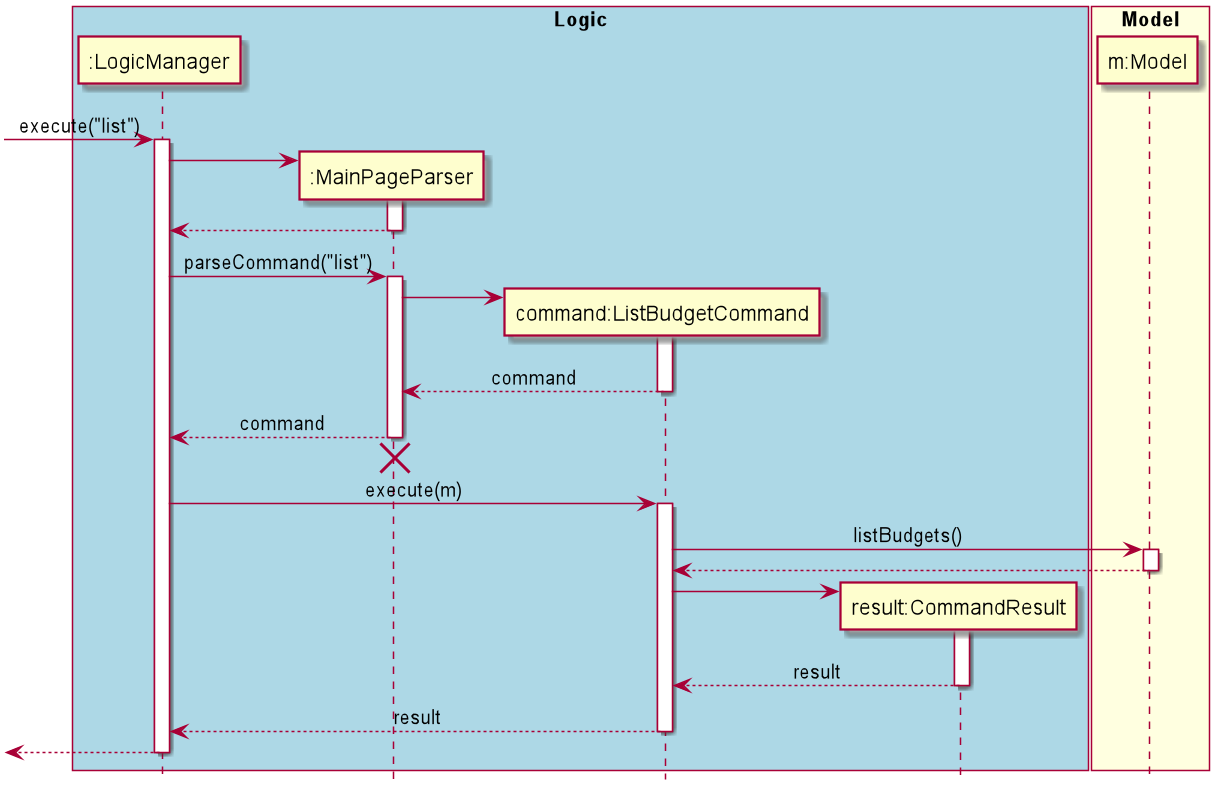
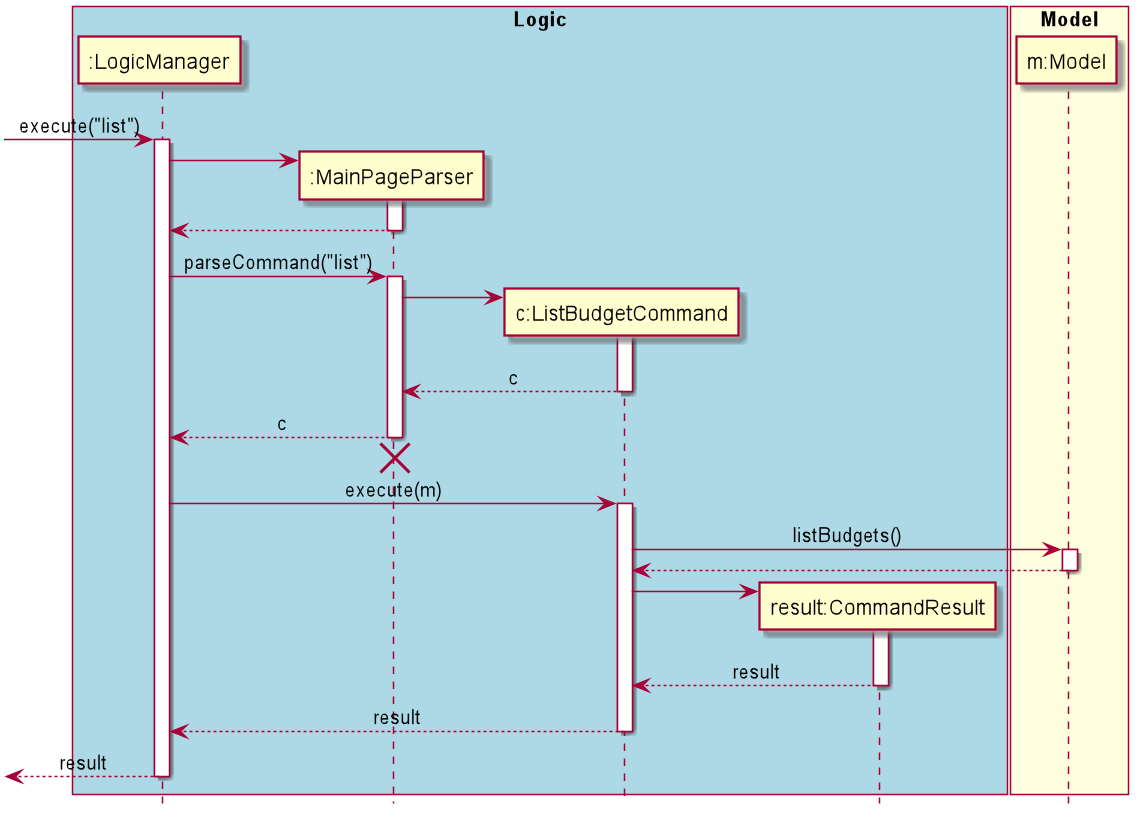
Fix sequence diagrams

diff --git a/docs/UserGuide.md b/docs/UserGuide.md
@@ -681,7 +681,7 @@ Figure 5.3.7.1. Example of using the close budget command.
 | Create a budget   | `create n/NAME [p/THRESHOLD]`       | `create n/Daily Expenses`, <br>`create n/Project Work p/100`     
 | Delete a budget   | `delete INDEX`                      | `delete 1`                                                       
 | Edit a budget     | `edit INDEX [n/NAME] [p/THRESHOLD]` | `edit 1 n/Hall Council`, <br>`edit 2 n/NUS Computing Club p/1000`
-| Find budgets      | `find KEYWORD` | `find Temasek`     |                                                                  
+| Find budgets      | `find KEYWORD`                      | `find Temasek`                                        
 | List all budgets  | `list`                              | \-                                                               
 | Sort all budgets  | `sort TYPE`                         | `sort time`, <br>`sort name`                                     
 | Clear all budgets | `clear`                             | \-                                                               
@@ -718,6 +718,8 @@ You can find the meanings of some special keywords applicable to NUSave over her
 | Threshold                   | Refers to the target limit that can be spent in that budget.
 
 ## 8. FAQ
+(Contributed by Chin Hui)
+
 **Q**: How do I transfer my data to another computer?
 
 **A**: Install the application on another computer and overwrite the empty data file it creates with the .json file that contains the data of your previous NUSave folder.

diff --git a/docs/DeveloperGuide.md b/docs/DeveloperGuide.md
@@ -195,6 +195,7 @@ Figure 3.2.2.1. above represents the interactions within the `Logic` component f
 
 #### 3.2.3. Model Component
 (Contributed by Chin Hui)
+
 ![Structure of the Model Component](images/ModelClassDiagram.png)
 Figure 3.4.1: Structure of the model component.
 
@@ -749,6 +750,7 @@ The details of the flow of `SortExpenditureCommand` will not be elaborate in det
 ##### 4.3.5.1 List Budget
 
 (Contributed by Chin Hui)
+
 The following sequence diagram shows the interactions between the `Logic` and `Model` components of NUSave,
 depicting a scenario where the user would like to list all budgets.
 
@@ -771,6 +773,7 @@ on the user interface.
 
 ##### 4.3.5.2 Find Budget
 (Contributed by Chin Hui)
+
 The following sequence diagram shows the interactions between the `Logic` and `Model` components of NUSave,
 depicting a scenario where the user would like to find budgets by a search term/phrase.
 
